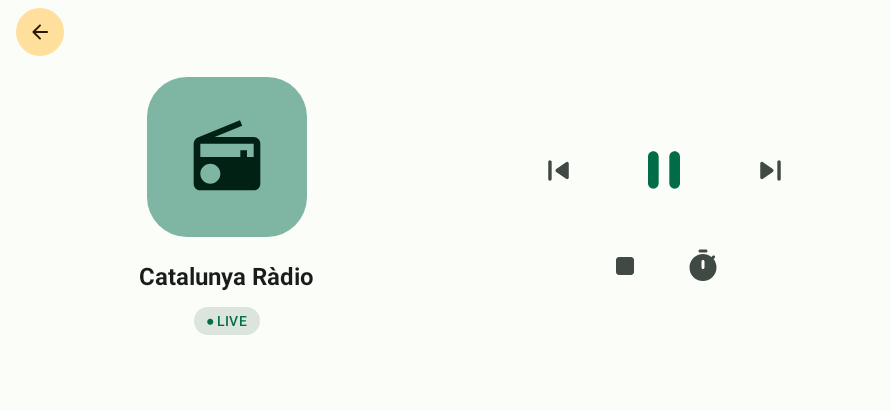
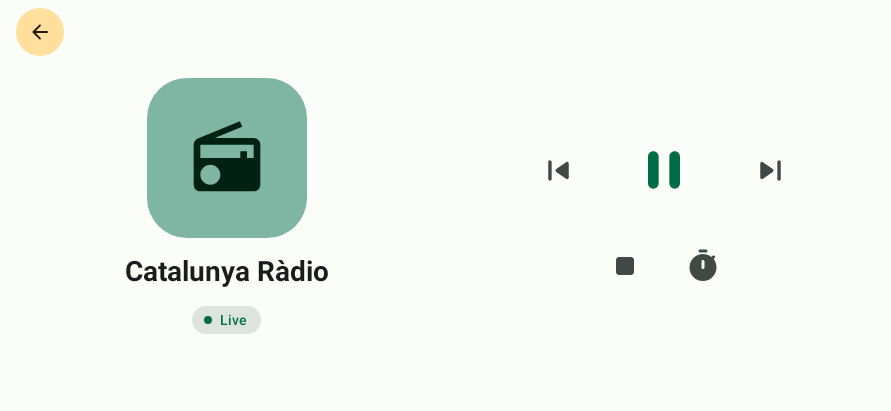
[feature/streaming_radio] feat(radio): show playback status in player chip

diff --git a/feature/radio/src/main/java/com/alxnophis/jetpack/radio/ui/composable/RadioPlayerScreen.kt b/feature/radio/src/main/java/com/alxnophis/jetpack/radio/ui/composable/RadioPlayerScreen.kt
@@ -1,5 +1,10 @@
 package com.alxnophis.jetpack.radio.ui.composable
 
+import androidx.compose.animation.core.RepeatMode
+import androidx.compose.animation.core.animateFloat
+import androidx.compose.animation.core.infiniteRepeatable
+import androidx.compose.animation.core.rememberInfiniteTransition
+import androidx.compose.animation.core.tween
 import androidx.compose.foundation.background
 import androidx.compose.foundation.clickable
 import androidx.compose.foundation.interaction.MutableInteractionSource
@@ -48,6 +53,7 @@ import androidx.compose.runtime.saveable.rememberSaveable
 import androidx.compose.runtime.setValue
 import androidx.compose.ui.Alignment
 import androidx.compose.ui.Modifier
+import androidx.compose.ui.draw.alpha
 import androidx.compose.ui.draw.clip
 import androidx.compose.ui.graphics.vector.ImageVector
 import androidx.compose.ui.res.stringResource
@@ -201,7 +207,9 @@ private fun PlayerInfo(
             color = MaterialTheme.colorScheme.onSurface,
             modifier = Modifier.fillMaxWidth(),
         )
-        LiveChip()
+        if (uiState.status != RadioPlaybackStatus.Idle && uiState.status != RadioPlaybackStatus.Error) {
+            PlaybackStatusChip(status = uiState.status)
+        }
     }
 }
 
@@ -256,17 +264,42 @@ private fun BackButton(
 }
 
 @Composable
-private fun LiveChip() {
+private fun PlaybackStatusChip(status: RadioPlaybackStatus) {
+    val label =
+        when (status) {
+            RadioPlaybackStatus.Playing -> stringResource(R.string.radio_status_live)
+            RadioPlaybackStatus.Paused -> stringResource(R.string.radio_status_paused)
+            else -> stringResource(R.string.radio_status_connecting)
+        }
+    val pulseAlpha by rememberInfiniteTransition(label = "livePulse").animateFloat(
+        initialValue = 1f,
+        targetValue = 0.3f,
+        animationSpec = infiniteRepeatable(tween(durationMillis = 900), RepeatMode.Reverse),
+        label = "livePulseAlpha",
+    )
+    val dotAlpha = if (status == RadioPlaybackStatus.Playing) pulseAlpha else 1f
     Surface(
         shape = RoundedCornerShape(50),
         color = MaterialTheme.colorScheme.surfaceVariant,
     ) {
-        Text(
-            text = "●  " + stringResource(R.string.radio_live),
-            modifier = Modifier.padding(horizontal = 16.dp, vertical = 4.dp),
-            style = MaterialTheme.typography.labelLarge,
-            color = MaterialTheme.colorScheme.primary,
-        )
+        Row(
+            modifier = Modifier.padding(horizontal = 12.dp, vertical = 4.dp),
+            verticalAlignment = Alignment.CenterVertically,
+            horizontalArrangement = Arrangement.spacedBy(8.dp),
+        ) {
+            Box(
+                modifier =
+                    Modifier
+                        .size(8.dp)
+                        .alpha(dotAlpha)
+                        .background(MaterialTheme.colorScheme.primary, CircleShape),
+            )
+            Text(
+                text = label,
+                style = MaterialTheme.typography.bodyLarge,
+                color = MaterialTheme.colorScheme.primary,
+            )
+        }
     }
 }
 
